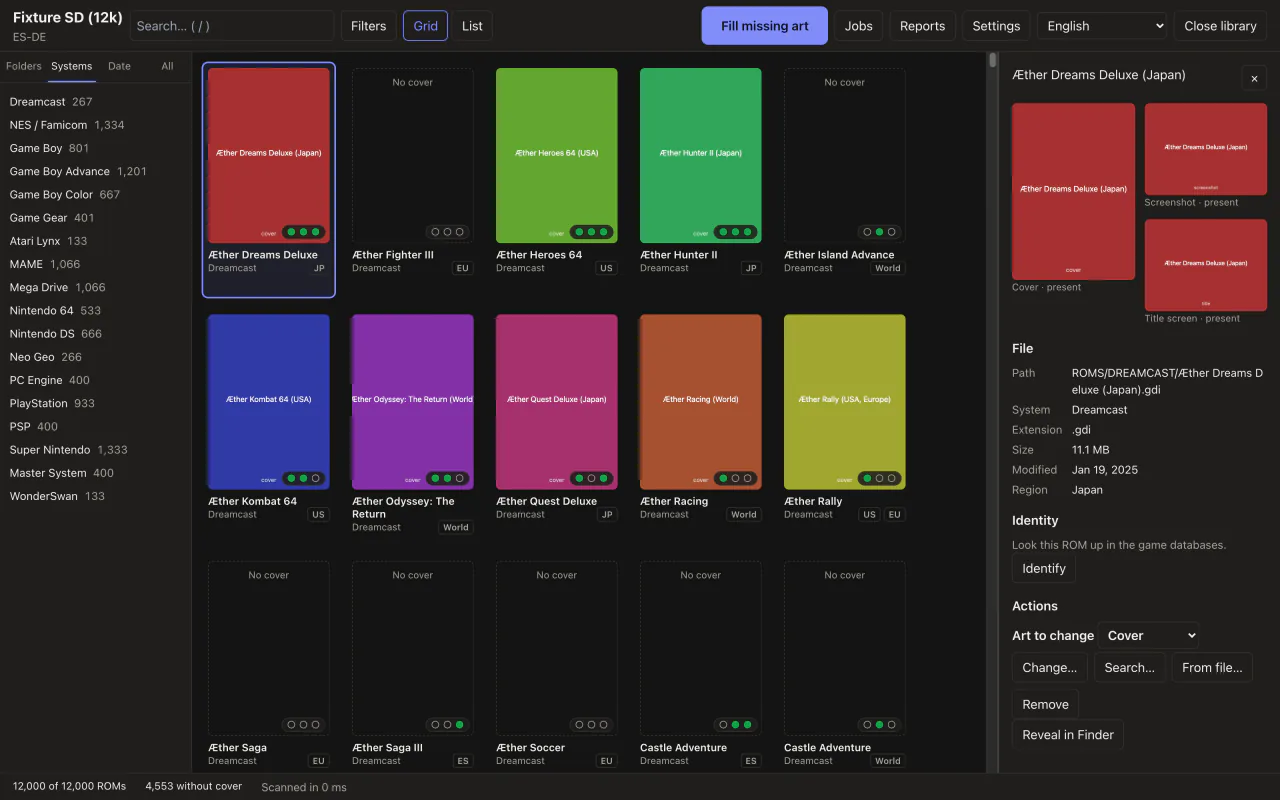
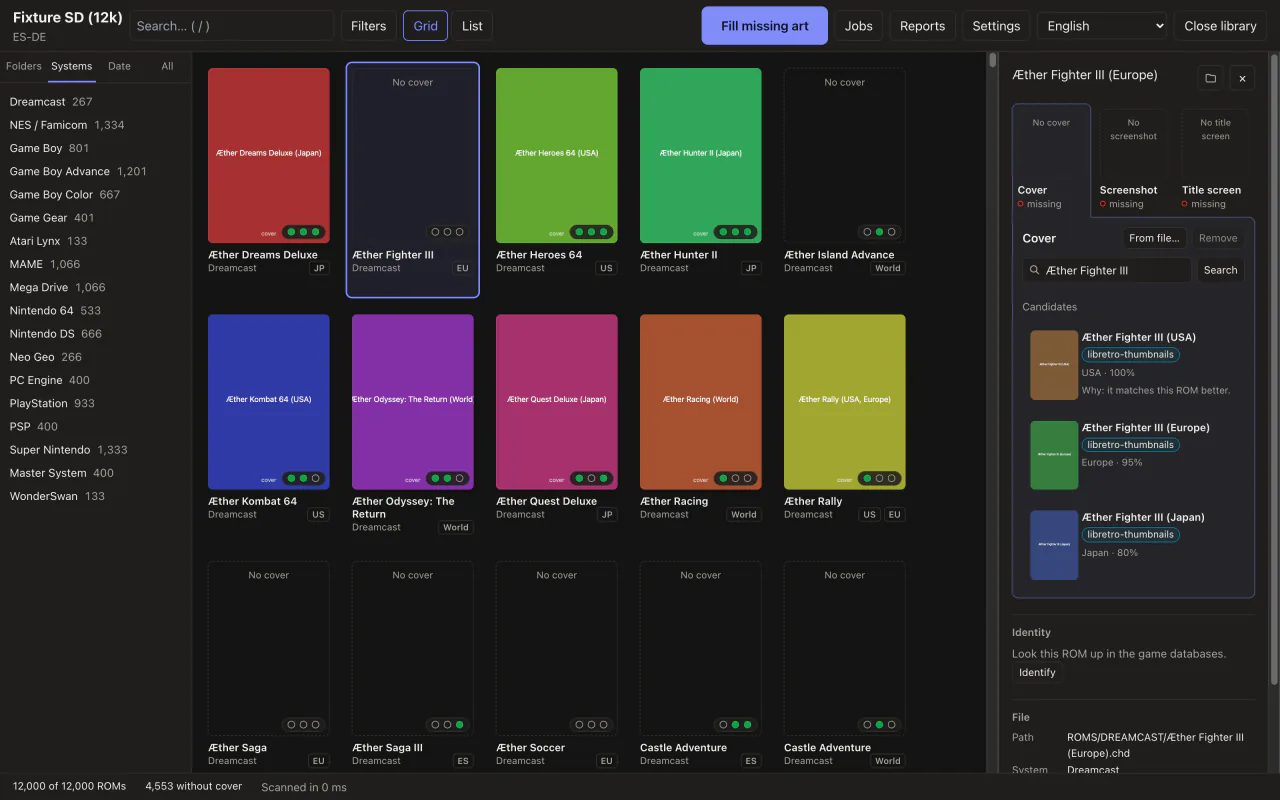
docs(site): show the reworked detail drawer in the landing screenshots

diff --git a/site/index.html b/site/index.html
@@ -182,7 +182,7 @@
 <figure>
 <div class="shot"><picture>
 <source data-dark media="(prefers-color-scheme: dark)" type="image/webp" srcset="assets/shots/es/detail-dark@1x.webp 1280w, assets/shots/es/detail-dark.webp 2560w" sizes="(min-width: 1240px) 790px, (min-width: 900px) calc(100vw - 448px), calc(100vw - 32px)">
-<img src="assets/shots/es/detail-light@1x.webp" srcset="assets/shots/es/detail-light@1x.webp 1280w, assets/shots/es/detail-light.webp 2560w" sizes="(min-width: 1240px) 790px, (min-width: 900px) calc(100vw - 448px), calc(100vw - 32px)" width="1280" height="800" loading="lazy" decoding="async" alt="La ficha de un juego junto a la cuadrícula: su portada, captura y pantalla de título, los datos del archivo y los botones Cambiar, Buscar, Desde archivo y Quitar.">
+<img src="assets/shots/es/detail-light@1x.webp" srcset="assets/shots/es/detail-light@1x.webp 1280w, assets/shots/es/detail-light.webp 2560w" sizes="(min-width: 1240px) 790px, (min-width: 900px) calc(100vw - 448px), calc(100vw - 32px)" width="1280" height="800" loading="lazy" decoding="async" alt="La ficha de un juego junto a la cuadrícula: le falta la portada y las candidatas ya están cargadas debajo, con un buscador encima y los botones Desde archivo y Quitar.">
 </picture></div>
 </figure>
 </li>

diff --git a/site/en/index.html b/site/en/index.html
@@ -182,7 +182,7 @@
 <figure>
 <div class="shot"><picture>
 <source data-dark media="(prefers-color-scheme: dark)" type="image/webp" srcset="../assets/shots/en/detail-dark@1x.webp 1280w, ../assets/shots/en/detail-dark.webp 2560w" sizes="(min-width: 1240px) 790px, (min-width: 900px) calc(100vw - 448px), calc(100vw - 32px)">
-<img src="../assets/shots/en/detail-light@1x.webp" srcset="../assets/shots/en/detail-light@1x.webp 1280w, ../assets/shots/en/detail-light.webp 2560w" sizes="(min-width: 1240px) 790px, (min-width: 900px) calc(100vw - 448px), calc(100vw - 32px)" width="1280" height="800" loading="lazy" decoding="async" alt="A game's panel beside the grid: its cover, screenshot and title screen, the file details, and the Change, Search, From file and Remove buttons.">
+<img src="../assets/shots/en/detail-light@1x.webp" srcset="../assets/shots/en/detail-light@1x.webp 1280w, ../assets/shots/en/detail-light.webp 2560w" sizes="(min-width: 1240px) 790px, (min-width: 900px) calc(100vw - 448px), calc(100vw - 32px)" width="1280" height="800" loading="lazy" decoding="async" alt="A game's panel beside the grid: its cover is missing and the candidates are already loaded below, with a search box above them and the From file and Remove buttons.">
 </picture></div>
 </figure>
 </li>
